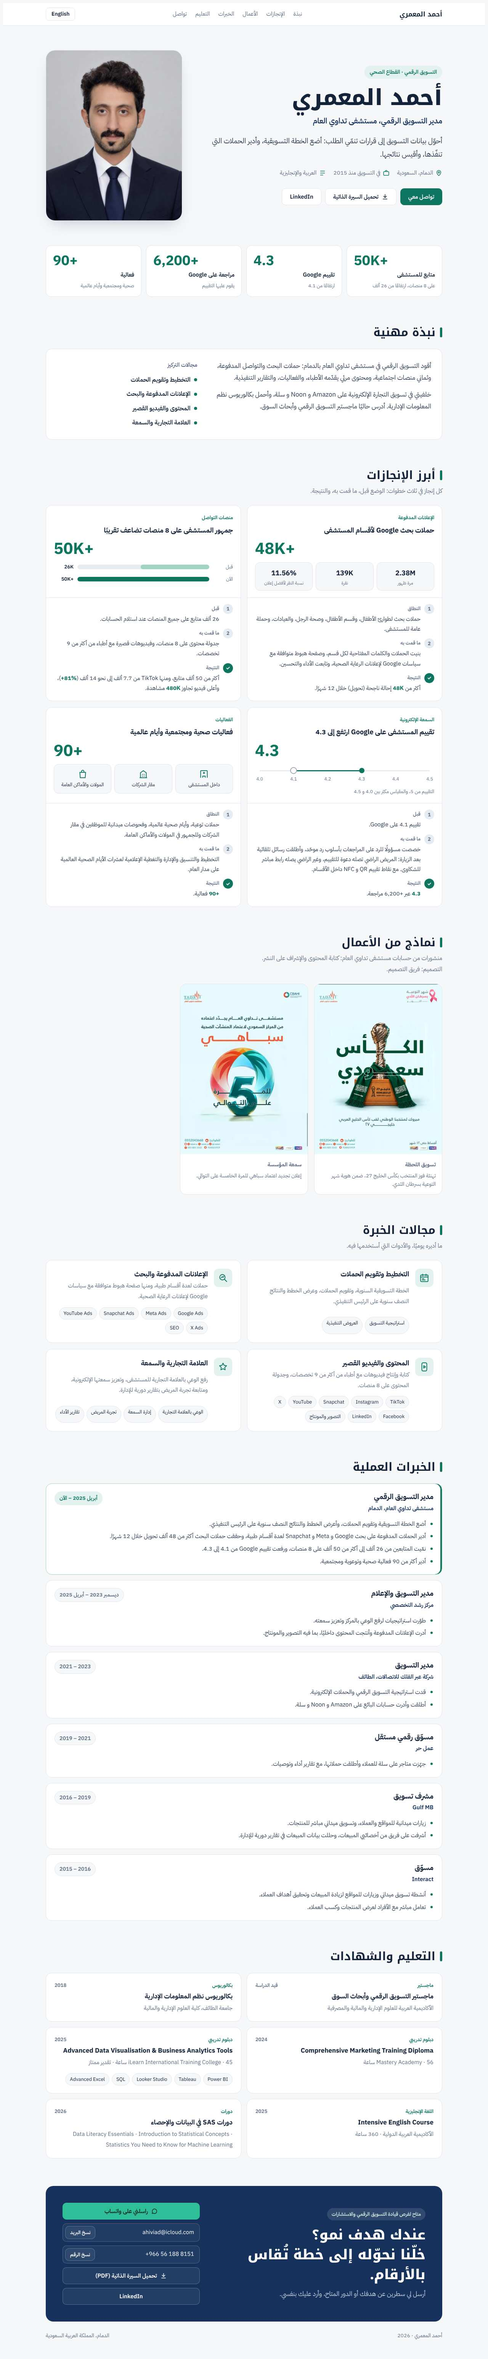
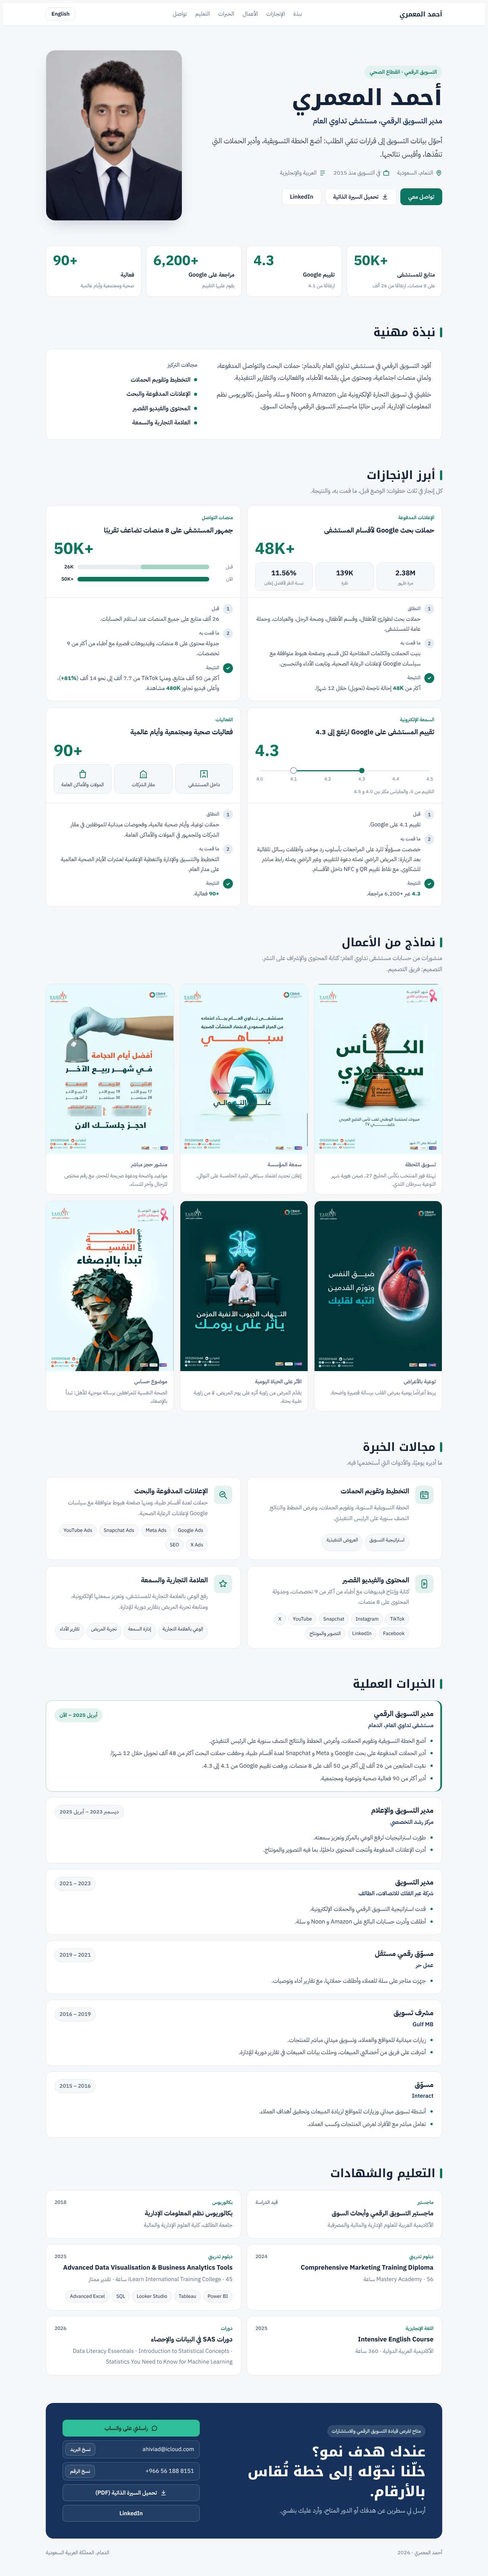
Add four more selected posts to the work gallery
Doctors' phone numbers on the cupping post are blurred.

Claude-Session: https://claude.ai/code/session_018rCsh71PZS7USH6WGv2a11

diff --git a/index.html b/index.html
@@ -361,6 +361,10 @@ a:focus-visible,button:focus-visible{outline:2px solid var(--accent);outline-off
     <div class="gallery">
       <figure><img src="work/khaleeji-cup.webp" alt="منشور الكأس سعودي" loading="lazy" width="720" height="960"><figcaption><b><span class="ar">تسويق اللحظة</span><span class="en">Real-time marketing</span></b><span><span class="ar">تهنئة فوز المنتخب بكأس الخليج 27، ضمن هوية شهر التوعية بسرطان الثدي.</span><span class="en">Congratulating the national team on Gulf Cup 27, within the breast cancer awareness month identity.</span></span></figcaption></figure>
       <figure><img src="work/cbahi-5th.webp" alt="منشور تجديد اعتماد سباهي" loading="lazy" width="720" height="960"><figcaption><b><span class="ar">سمعة المؤسسة</span><span class="en">Institutional reputation</span></b><span><span class="ar">إعلان تجديد اعتماد سباهي للمرة الخامسة على التوالي.</span><span class="en">Announcing CBAHI accreditation renewed for the fifth consecutive time.</span></span></figcaption></figure>
+      <figure><img src="work/cupping.webp" alt="منشور أفضل أيام الحجامة" loading="lazy" width="720" height="960"><figcaption><b><span class="ar">منشور حجز مباشر</span><span class="en">Direct booking post</span></b><span><span class="ar">مواعيد واضحة ودعوة صريحة للحجز، مع رقم مختص للرجال وآخر للنساء.</span><span class="en">Clear dates and a direct call to book, with separate contacts for men and women.</span></span></figcaption></figure>
+      <figure><img src="work/heart.webp" alt="منشور انتبه لقلبك" loading="lazy" width="720" height="960"><figcaption><b><span class="ar">توعية بالأعراض</span><span class="en">Symptom awareness</span></b><span><span class="ar">يربط أعراضًا يومية بمرض القلب برسالة قصيرة واضحة.</span><span class="en">Links everyday symptoms to heart disease in one short message.</span></span></figcaption></figure>
+      <figure><img src="work/sinus.webp" alt="منشور التهاب الجيوب الأنفية" loading="lazy" width="720" height="960"><figcaption><b><span class="ar">الأثر على الحياة اليومية</span><span class="en">Impact on daily life</span></b><span><span class="ar">يقدّم المرض من زاوية أثره على يوم المريض، لا من زاوية طبية بحتة.</span><span class="en">Frames the condition by its effect on the patient's day, not in purely clinical terms.</span></span></figcaption></figure>
+      <figure><img src="work/teen-mental-health.webp" alt="منشور الصحة النفسية للمراهقين" loading="lazy" width="720" height="960"><figcaption><b><span class="ar">موضوع حساس</span><span class="en">A sensitive topic</span></b><span><span class="ar">الصحة النفسية للمراهقين برسالة موجهة للأهل: تبدأ بالإصغاء.</span><span class="en">Teen mental health with a message to parents: it starts with listening.</span></span></figcaption></figure>
     </div>
   </section>
 
